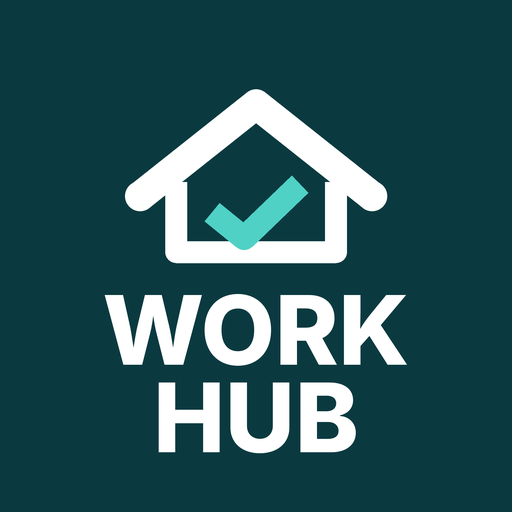
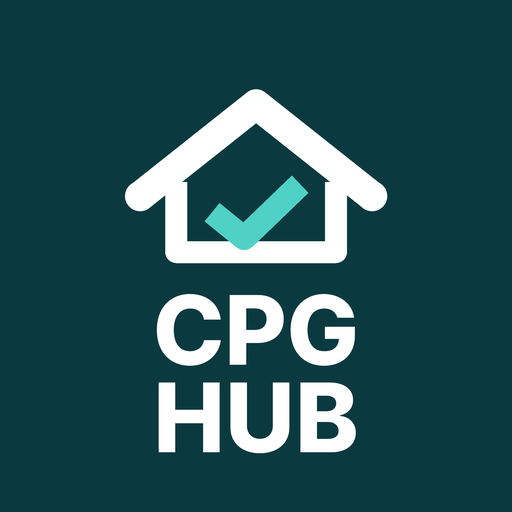
Rename the app to CPG HUB
Update the app name, header, home-screen label and icons from ワークHUB to CPG HUB.
The URL and app id stay /work-hub/ so existing installs keep their data.

Claude-Session: https://claude.ai/code/session_01WEHzL2HUHmjtTTTs6qx32p

Changed region(s): [[0.1875, 0.5625, 0.8125, 0.7188]]

diff --git a/index.html b/index.html
@@ -5,8 +5,8 @@
 <meta name="viewport" content="width=device-width,initial-scale=1,viewport-fit=cover">
 <meta name="theme-color" content="#0a3a40">
 <meta name="referrer" content="no-referrer">
-<title>ワークHUB</title>
-<meta name="application-name" content="ワークHUB">
+<title>CPG HUB</title>
+<meta name="application-name" content="CPG HUB">
 <link rel="manifest" href="./manifest.webmanifest">
 <link rel="icon" type="image/png" sizes="192x192" href="./work-hub-icon-192.png">
 <link rel="apple-touch-icon" href="./apple-touch-icon.png">
@@ -180,7 +180,7 @@ table.items input,table.items select{min-height:36px;padding:5px 8px}
 </style>
 
 <header class="top"><div class="top-in">
-  <span class="brand">ワークHUB</span><span class="proto">試作・架空データ</span>
+  <span class="brand">CPG HUB</span><span class="proto">試作・架空データ</span>
   <span class="sp"></span>
   <button class="btn pri sm" type="button" data-act="new">＋ 受付</button>
 </div></header>
@@ -413,7 +413,7 @@ function itemsPanel(c,ro){
 }
 function gcalPreview(c){
   const s=TYPES[c.type].site;
-  const desc=["受付番号："+c.id,"依頼の種類："+TYPES[c.type].label,"依頼元："+c.client+"（"+c.clientKind+"）","担当："+c.tantou,c.symptom?"症状："+c.symptom:"",c.note?"メモ："+c.note:"","ワークHUBで開く：（本番版で案件へのリンクが入ります）"].filter(Boolean).join("\n");
+  const desc=["受付番号："+c.id,"依頼の種類："+TYPES[c.type].label,"依頼元："+c.client+"（"+c.clientKind+"）","担当："+c.tantou,c.symptom?"症状："+c.symptom:"",c.note?"メモ："+c.note:"","CPG HUBで開く：（本番版で案件へのリンクが入ります）"].filter(Boolean).join("\n");
   return '<div class="panel"><h3>Googleカレンダーに登録される内容（本番版）</h3>'+
   '<p class="note" style="margin:0">「日程を決める」と、本番版では担当者（'+h(c.tantou)+'）のGoogleカレンダーにこの内容で登録します。試作ではGoogleには登録しません。</p>'+
   '<dl class="kv"><dt>件名</dt><dd>【'+h(TYPES[c.type].label)+'】'+h(c.property)+' '+h(c.room)+'</dd>'+
@@ -448,13 +448,13 @@ function vDetail(){
       '<div class="row"><label class="f" style="flex:1">次に確認する日（必須）<input type="date" id="d_hold" value="'+h(c.holdDate||addDays(todayS(),7))+'"></label><button class="btn" type="button" data-act="hold" style="align-self:flex-end">保留にする</button></div></div>';
   }else if(c.stage==="won"){
     act='<div class="panel"><h3>次にやること：Accessへ引渡</h3>'+
-      '<p class="note" style="margin:0">Accessで現場管理表を作成し、振られた仕事番号を入力してください。引渡後、この案件はワークHUBでは読み取り専用になり、以降の進捗・売上・入金消込はAccessで管理します。</p>'+
+      '<p class="note" style="margin:0">Accessで現場管理表を作成し、振られた仕事番号を入力してください。引渡後、この案件はCPG HUBでは読み取り専用になり、以降の進捗・売上・入金消込はAccessで管理します。</p>'+
       '<label class="f">仕事番号（Accessで振られた番号）<input type="text" id="d_job" placeholder="Accessの仕事番号"></label>'+
       '<div class="row"><button class="btn pri" type="button" data-act="hand">引渡済にする</button><button class="btn sm" type="button" data-act="csvone">この案件をAccess用に書き出す</button></div></div>';
   }else if(c.stage==="lost"){
     act='<div class="ro">失注（'+h(c.lossReason)+'・'+md(c.lossDate)+'）。毎日の一覧には出ません。<button class="btn sm" type="button" data-act="reopen">見積提出済に戻す</button></div>';
   }else if(ro){
-    act='<div class="ro"><b>Access引渡済</b>　仕事番号 <b class="num">'+h(c.jobNo)+'</b>（'+md(c.handedDate)+'）<br>この後の進捗・売上・入金消込はAccessの現場管理表で管理します。ワークHUBでは編集できません。</div>';
+    act='<div class="ro"><b>Access引渡済</b>　仕事番号 <b class="num">'+h(c.jobNo)+'</b>（'+md(c.handedDate)+'）<br>この後の進捗・売上・入金消込はAccessの現場管理表で管理します。CPG HUBでは編集できません。</div>';
   }
   const ph=photos[c.id]||[];
   return '<button class="back" type="button" data-nav="cases">‹ 案件へ戻る</button>'+

diff --git a/README.md b/README.md
@@ -1,4 +1,4 @@
-# ワークHUB（試作）
+# CPG HUB（試作）
 
 退去立会・リノベーション・定期清掃・緊急対応の依頼を、受付から受注、Accessへの引渡まで管理する社員向けアプリの試作です。
 
